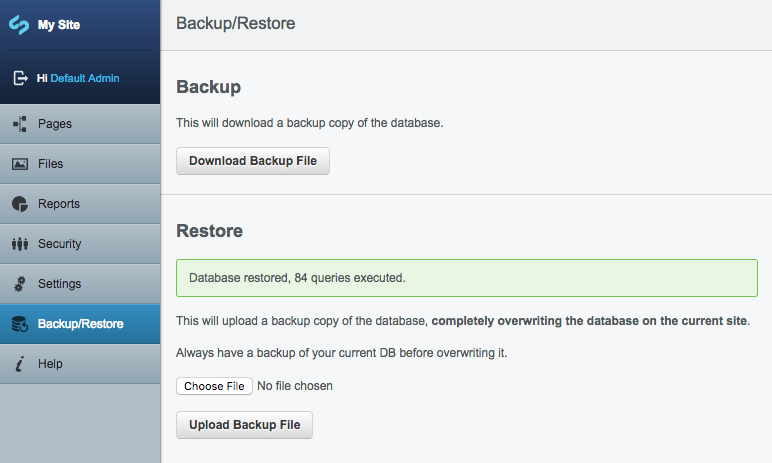
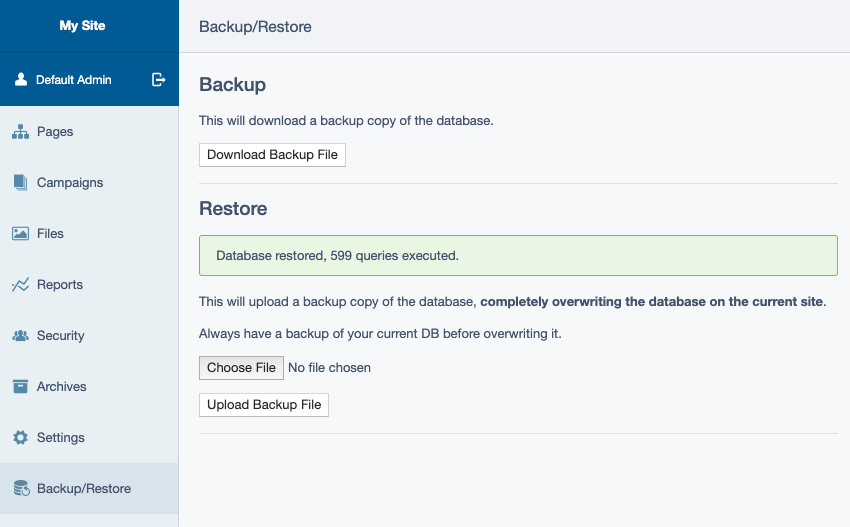
Added options for $db_temp_dir and $create_htaccess, fixed some cosmetic stuff, updated README

Changed region(s): [[0.0, 0.0, 0.9948, 1.0]]

diff --git a/css/backuprestore.css b/css/backuprestore.css
@@ -1,9 +1,19 @@
-#Menu-BackupRestore .icon-backuprestore{
+#Menu-BCairns-BackupRestore-BackupRestore .menu__icon{
 	background-size: 16px 16px;
+    width: 19px;
 }
 
-#backuprestore-cms-content .livewarning{
-	background: url(../../cms/images/dialogs/alert.png) 7px center no-repeat;
-	background-size: 24px 24px;
-	padding-left: 35px;
+#backuprestore-cms-content .livewarning .icon{
+    font-size: 14px;
+    position: relative;
+    top: 1px;
+}
+
+#backuprestore-cms-content .livewarning img{
+    margin-right: 7px;
+}
+
+#backuprestore-cms-content .livewarning span{
+    position: relative;
+    top: 1px;
 }

diff --git a/src/BackupRestore.php b/src/BackupRestore.php
@@ -5,7 +5,7 @@ namespace BCairns\BackupRestore;
 use SilverStripe\Admin\LeftAndMain;
 use SilverStripe\Assets\Filesystem;
 use SilverStripe\Control\Director;
-//use SilverStripe\Control\Session;
+use SilverStripe\Core\Config\Config;
 use SilverStripe\ORM\DB;
 use SilverStripe\View\ArrayData;
 
@@ -15,7 +15,7 @@ use SilverStripe\View\ArrayData;
  */
 class BackupRestore extends LeftAndMain {
 
-	private static $version = 'dev-master';
+	private static $version = '4.x';
 
 	private static $allowed_actions = array(
 		'backup',
@@ -26,23 +26,27 @@ class BackupRestore extends LeftAndMain {
 
 	private static $menu_title = 'Backup/Restore';
 
-//	private static $menu_icon = 'menuicon.png';
+	private static $menu_icon = 'public/resources/vendor/bcairns/silverstripe-backuprestore/images/menuicon.png';
 
 	private static $menu_priority = -2;
 
 	private static $url_segment = 'backuprestore';
 
+	private static $db_temp_dir = '../app/_db';
+	private static $create_htaccess = true;
+
 
 	public static function getPath(){
-		return '../assets/_db/';
-	}
+        return Config::inst()->get(self::class, 'db_temp_dir') . '/';
+    }
 
 	// make DB folder and add .htaccess if needed
 	public static function makeFolder(){
 		if( !file_exists(self::getPath()) ){
 			Filesystem::makeFolder(self::getPath());
 		}
-		if( !file_exists(self::getPath().'.htaccess') ){
+		if( Config::inst()->get(self::class, 'create_htaccess') &&
+		    !file_exists(self::getPath().'.htaccess') ){
 			$content = <<<TEXT
 <Files *>
 	Order deny,allow

diff --git a/README.md b/README.md
@@ -1,13 +1,12 @@
 # SilverStripe Backup/Restore
 
-![Screenshot](https://raw.githubusercontent.com/bcairns/silverstripe-backuprestore/master/screenshot.png)
+![Screenshot](https://raw.githubusercontent.com/bcairns/silverstripe-backuprestore/4.x/screenshot.png)
 
 
-## SilverStripe 4
+## Versions
 
-The 4.x branch contains an early version for SilverStripe 4.  It has not been widely tested yet, so please use with care.
-
-The 3.x branch contains the SilverStripe 3 version.
+- The 4.x branch contains the SilverStripe 4 version.
+- The 3.x branch contains the SilverStripe 3 version.
 
 
 ## Description
@@ -22,23 +21,37 @@ This module does NOT require mysqldump command-line utility, unlike some other s
 
 Install via composer.  There will be a new Backup/Restore panel in the main CMS menu.
 
-There is an `excluded_tables` option which can be used to omit certain tables if needed.  Eg in `config.yml`:
+- Under "Backup", click "Download Backup File" to download a GZIPPED database dump.  This is a standard SQL dump file that should be usable with other applications than this module.  It performs DROP TABLE on each table and then recreates them.
+- Under "Restore", click "Select File" to choose a database dump file (either gzipped or uncompressed should both work), then click "Upload Backup File" to upload and execute it.
+
+If a live environment is detected, Backup/Restore will display a very prominent alert message in the Restore section, warning against overwriting your live database.
+
+
+## Options
+
+### Excluded Tables
+
+There is an `excluded_tables` option which can be used to omit certain tables if needed.
 
 ```
-BackupRestore:
+BCairns\BackupRestore\BackupRestore:
   excluded_tables:
     - SubmittedFormField
 ```
 
-## File Locations
+### Database Temp Dir and .htaccess File
 
-This module stores database dump files in /assets/_db, and it creates an .htacess file to prevent web access.
+The module writes the DB dump to disk (on the server) for compression and download.
 
+By default, it will write to "../app/_db", and also will create an `.htaccess` file blocking access to the directory (as an extra precaution, even though this should typically not be web-accessible).
+  
+These can both be configured:
 
-## Planned Improvements
-
-* Add configuration options.
-* Allow for possibility of other (non-MySQL) DB backend providers.
+```
+BCairns\BackupRestore\BackupRestore:
+  db_temp_dir: "../../my_temp_dir"
+  create_htaccess: false
+```
 
 ## Acknowledgements
 
